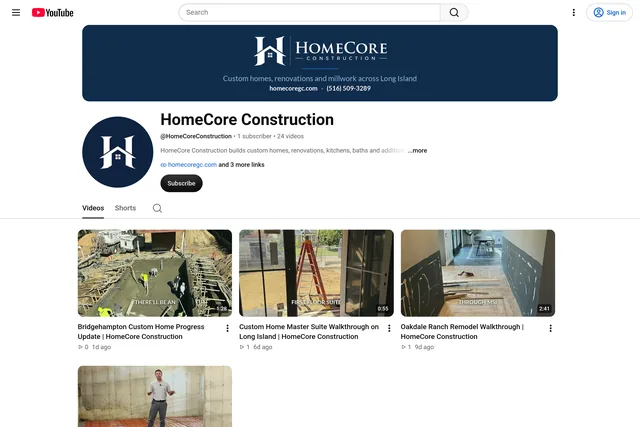
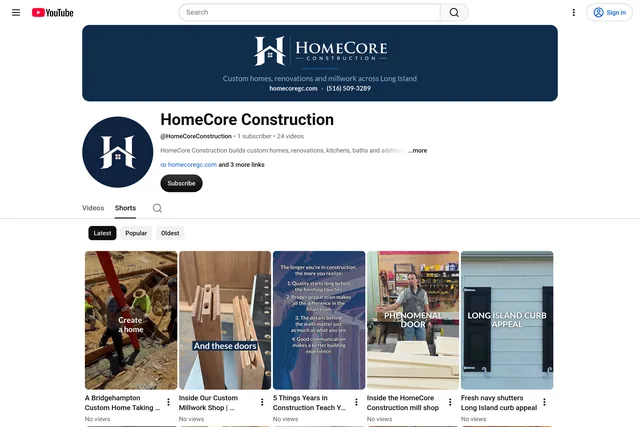
Our Work: use the YouTube Shorts tab for the Videos card cover
JJ asked for the Shorts snapshot rather than the Videos tab. The card cover is now a cropped screenshot of the live @HomeCoreConstruction Shorts page, with matching alt text.

Changed region(s): [[0.0938, 0.4871, 0.875, 1.0]]

diff --git a/projects/index.html b/projects/index.html
@@ -231,7 +231,7 @@
 
     <a href="/videos/" class="project-card">
       <div class="project-cover">
-        <img src="/images/projects/videos/cover.webp" alt="HomeCore Construction YouTube channel page, showing the channel banner, logo, and recent job site videos" srcset="/images/projects/videos/cover-640w.webp 640w, /images/projects/videos/cover.webp 1200w" sizes="(max-width: 700px) 100vw, 530px" width="1200" height="800" loading="lazy" decoding="async">
+        <img src="/images/projects/videos/cover.webp" alt="HomeCore Construction YouTube channel page on the Shorts tab, showing the channel banner, logo, and recent Shorts" srcset="/images/projects/videos/cover-640w.webp 640w, /images/projects/videos/cover.webp 1200w" sizes="(max-width: 700px) 100vw, 530px" width="1200" height="800" loading="lazy" decoding="async">
         <span class="project-cat">Videos</span>
       </div>
       <div class="project-body">

diff --git a/scripts/build_videos.py b/scripts/build_videos.py
@@ -637,7 +637,7 @@ def patch_projects_index() -> None:
     card = """
     <a href="/videos/" class="project-card">
       <div class="project-cover">
-        <img src="/images/projects/videos/cover.webp" alt="HomeCore Construction YouTube channel page, showing the channel banner, logo, and recent job site videos" srcset="/images/projects/videos/cover-640w.webp 640w, /images/projects/videos/cover.webp 1200w" sizes="(max-width: 700px) 100vw, 530px" width="1200" height="800" loading="lazy" decoding="async">
+        <img src="/images/projects/videos/cover.webp" alt="HomeCore Construction YouTube channel page on the Shorts tab, showing the channel banner, logo, and recent Shorts" srcset="/images/projects/videos/cover-640w.webp 640w, /images/projects/videos/cover.webp 1200w" sizes="(max-width: 700px) 100vw, 530px" width="1200" height="800" loading="lazy" decoding="async">
         <span class="project-cat">Videos</span>
       </div>
       <div class="project-body">
